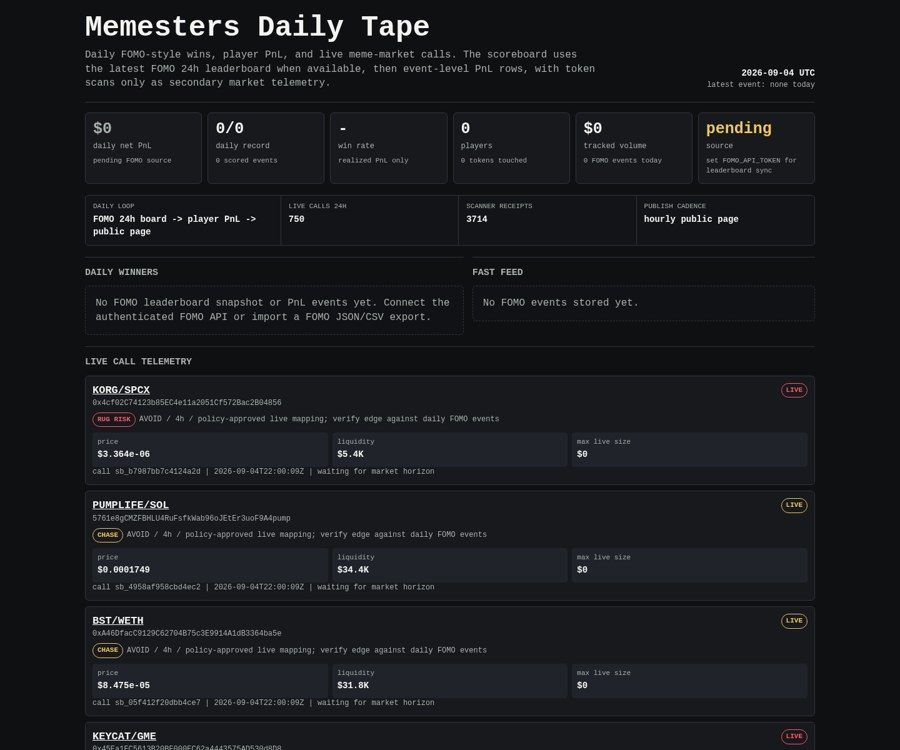
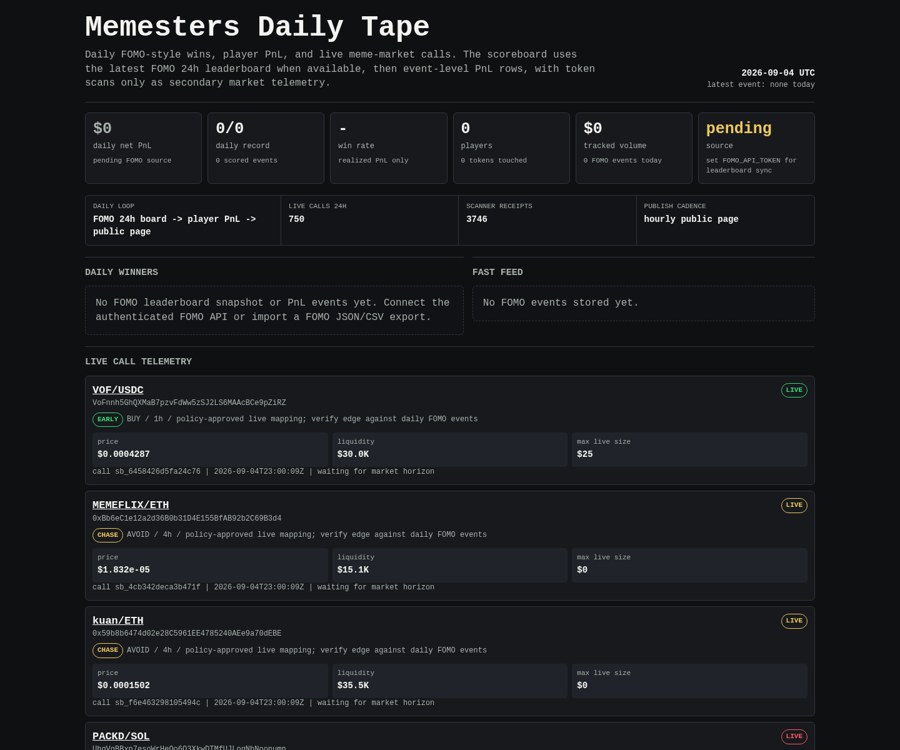
Update Memesters scoreboard

diff --git a/memesters/index.html b/memesters/index.html
@@ -150,7 +150,7 @@
     <div class="rail" aria-label="live operating loop">
       <div><span>daily loop</span><b>FOMO 24h board -> player PnL -> public page</b></div>
       <div><span>live calls 24h</span><b>750</b></div>
-      <div><span>scanner receipts</span><b>3714</b></div>
+      <div><span>scanner receipts</span><b>3746</b></div>
       <div><span>publish cadence</span><b>hourly public page</b></div>
     </div>
 
@@ -171,113 +171,8 @@
     <article class="receipt">
       <div class="receipt-head">
         <div>
-          <div class="pair"><a href="https://dexscreener.com/robinhood/0x68c7d4829dd05f33fd5b42e866be3f7f5c144e348308d9998b5456e2b38a3af7">KORG/SPCX</a></div>
-          <div class="addr">0x4cf02C74123b85EC4e11a2051Cf572Bac2B04856</div>
-          <div class="addr policy-line">
-            <span class="badge rug-risk">RUG RISK</span>
-            <span>AVOID / 4h / policy-approved live mapping; verify edge against daily FOMO events</span>
-          </div>
-        </div>
-        <span class="badge rug-risk">LIVE</span>
-      </div>
-      <div class="receipt-grid">
-        <div class="kv"><span>price</span><b>$3.364e-06</b></div>
-        <div class="kv"><span>liquidity</span><b>$5.4K</b></div>
-        <div class="kv"><span>max live size</span><b>$0</b></div>
-      </div>
-      <div class="outcomes">call sb_b7987bb7c4124a2d | 2026-09-04T22:00:09Z | waiting for market horizon</div>
-    </article>
-    
-
-    <article class="receipt">
-      <div class="receipt-head">
-        <div>
-          <div class="pair"><a href="https://dexscreener.com/solana/bxpgxiknexa6g7v81crdgka5vchw6sufbyy22hxnfcri">PUMPLIFE/SOL</a></div>
-          <div class="addr">5761e8gCMZFBHLU4RuFsfkWab96oJEtEr3uoF9A4pump</div>
-          <div class="addr policy-line">
-            <span class="badge chase">CHASE</span>
-            <span>AVOID / 4h / policy-approved live mapping; verify edge against daily FOMO events</span>
-          </div>
-        </div>
-        <span class="badge chase">LIVE</span>
-      </div>
-      <div class="receipt-grid">
-        <div class="kv"><span>price</span><b>$0.0001749</b></div>
-        <div class="kv"><span>liquidity</span><b>$34.4K</b></div>
-        <div class="kv"><span>max live size</span><b>$0</b></div>
-      </div>
-      <div class="outcomes">call sb_4958af958cbd4ec2 | 2026-09-04T22:00:09Z | waiting for market horizon</div>
-    </article>
-    
-
-    <article class="receipt">
-      <div class="receipt-head">
-        <div>
-          <div class="pair"><a href="https://dexscreener.com/base/0x2f335a05efe9c099a893e0150c5f74881d68f32d">BST/WETH</a></div>
-          <div class="addr">0xA46DfacC9129C62704B75c3E9914A1dB3364ba5e</div>
-          <div class="addr policy-line">
-            <span class="badge chase">CHASE</span>
-            <span>AVOID / 4h / policy-approved live mapping; verify edge against daily FOMO events</span>
-          </div>
-        </div>
-        <span class="badge chase">LIVE</span>
-      </div>
-      <div class="receipt-grid">
-        <div class="kv"><span>price</span><b>$8.475e-05</b></div>
-        <div class="kv"><span>liquidity</span><b>$31.8K</b></div>
-        <div class="kv"><span>max live size</span><b>$0</b></div>
-      </div>
-      <div class="outcomes">call sb_05f412f20dbb4ce7 | 2026-09-04T22:00:09Z | waiting for market horizon</div>
-    </article>
-    
-
-    <article class="receipt">
-      <div class="receipt-head">
-        <div>
-          <div class="pair"><a href="https://dexscreener.com/robinhood/0x2971165708437d0054c05d3662ca73c7c3ba2d827794bd4bbb050ef073528443">KEYCAT/GME</a></div>
-          <div class="addr">0x45Ea1EC5613B20BE000EC62a4443575AD530d8D8</div>
-          <div class="addr policy-line">
-            <span class="badge rug-risk">RUG RISK</span>
-            <span>AVOID / 4h / policy-approved live mapping; verify edge against daily FOMO events</span>
-          </div>
-        </div>
-        <span class="badge rug-risk">LIVE</span>
-      </div>
-      <div class="receipt-grid">
-        <div class="kv"><span>price</span><b>$0.0004619</b></div>
-        <div class="kv"><span>liquidity</span><b>$51.9K</b></div>
-        <div class="kv"><span>max live size</span><b>$0</b></div>
-      </div>
-      <div class="outcomes">call sb_3e16363cc76f46c2 | 2026-09-04T22:00:09Z | waiting for market horizon</div>
-    </article>
-    
-
-    <article class="receipt">
-      <div class="receipt-head">
-        <div>
-          <div class="pair"><a href="https://dexscreener.com/base/0x98252f4f9af10c43f8426475952842a23a8ead458aa333698e624da455c35797">LiTesla/TSLAc</a></div>
-          <div class="addr">0xB200000000000000000000d0156AFdf3Ea382601</div>
-          <div class="addr policy-line">
-            <span class="badge chase">CHASE</span>
-            <span>AVOID / 4h / policy-approved live mapping; verify edge against daily FOMO events</span>
-          </div>
-        </div>
-        <span class="badge chase">LIVE</span>
-      </div>
-      <div class="receipt-grid">
-        <div class="kv"><span>price</span><b>$3.613e-05</b></div>
-        <div class="kv"><span>liquidity</span><b>$20.0K</b></div>
-        <div class="kv"><span>max live size</span><b>$0</b></div>
-      </div>
-      <div class="outcomes">call sb_712e697fb9104e5c | 2026-09-04T22:00:09Z | waiting for market horizon</div>
-    </article>
-    
-
-    <article class="receipt">
-      <div class="receipt-head">
-        <div>
-          <div class="pair"><a href="https://dexscreener.com/robinhood/0x1555d7d35615d28ca380b7ef7681cddf64ac73f0e381aec3a9daaf41f2c88a8f">Fitcoin/HIMS</a></div>
-          <div class="addr">0xcC65ef0332527F1C9b4B193517BCc27257c3e39F</div>
+          <div class="pair"><a href="https://dexscreener.com/solana/grfygm3ggphw1yagnvgf1jgsy2uq7yajbfij2wtyvrvt">VOF/USDC</a></div>
+          <div class="addr">VoFnnh5GhQXMaB7pzvFdWw5zSJ2LS6MAAcBCe9pZiRZ</div>
           <div class="addr policy-line">
             <span class="badge early">EARLY</span>
             <span>BUY / 1h / policy-approved live mapping; verify edge against daily FOMO events</span>
@@ -286,40 +181,19 @@
         <span class="badge early">LIVE</span>
       </div>
       <div class="receipt-grid">
-        <div class="kv"><span>price</span><b>$6.692e-05</b></div>
-        <div class="kv"><span>liquidity</span><b>$23.3K</b></div>
-        <div class="kv"><span>max live size</span><b>$280</b></div>
+        <div class="kv"><span>price</span><b>$0.0004287</b></div>
+        <div class="kv"><span>liquidity</span><b>$30.0K</b></div>
+        <div class="kv"><span>max live size</span><b>$25</b></div>
       </div>
-      <div class="outcomes">call sb_28ac648ed6f44ff7 | 2026-09-04T22:00:09Z | waiting for market horizon</div>
+      <div class="outcomes">call sb_6458426d5fa24c76 | 2026-09-04T23:00:09Z | waiting for market horizon</div>
     </article>
     
 
     <article class="receipt">
       <div class="receipt-head">
         <div>
-          <div class="pair"><a href="https://dexscreener.com/robinhood/0x28034a1760a3c4eaff4f720ce710ea1f15281eea99b5f75da521082606e3cb1d">SEPE/SPCX</a></div>
-          <div class="addr">0x5e8De09890D1ada7071977ef306d7Cf85B1F29A7</div>
-          <div class="addr policy-line">
-            <span class="badge rug-risk">RUG RISK</span>
-            <span>AVOID / 4h / policy-approved live mapping; verify edge against daily FOMO events</span>
-          </div>
-        </div>
-        <span class="badge rug-risk">LIVE</span>
-      </div>
-      <div class="receipt-grid">
-        <div class="kv"><span>price</span><b>$1.763e-05</b></div>
-        <div class="kv"><span>liquidity</span><b>$12.4K</b></div>
-        <div class="kv"><span>max live size</span><b>$0</b></div>
-      </div>
-      <div class="outcomes">call sb_97fcfb1a2b374300 | 2026-09-04T22:00:09Z | waiting for market horizon</div>
-    </article>
-    
-
-    <article class="receipt">
-      <div class="receipt-head">
-        <div>
-          <div class="pair"><a href="https://dexscreener.com/solana/8b1b8ufyyuwfqq48hajbdzmgzg5rybrammghxm6wkyhn">MEMELESS/SOL</a></div>
-          <div class="addr">FiAum2V5D6QUBXrW8T4vEsEcGJtVzxCUoLLrSWCLpump</div>
+          <div class="pair"><a href="https://dexscreener.com/robinhood/0xf1a2235b8eb72634497f1ebabb0d422df433e1a14cab62fa0b57683b8ac99973">MEMEFLIX/ETH</a></div>
+          <div class="addr">0xBb6eC1e12a2d36B0b31D4E155BfAB92b2C69B3d4</div>
           <div class="addr policy-line">
             <span class="badge chase">CHASE</span>
             <span>AVOID / 4h / policy-approved live mapping; verify edge against daily FOMO events</span>
@@ -328,40 +202,19 @@
         <span class="badge chase">LIVE</span>
       </div>
       <div class="receipt-grid">
-        <div class="kv"><span>price</span><b>$0.0002347</b></div>
-        <div class="kv"><span>liquidity</span><b>$40.0K</b></div>
+        <div class="kv"><span>price</span><b>$1.832e-05</b></div>
+        <div class="kv"><span>liquidity</span><b>$15.1K</b></div>
         <div class="kv"><span>max live size</span><b>$0</b></div>
       </div>
-      <div class="outcomes">call sb_63c35b3e6d174ef2 | 2026-09-04T22:00:09Z | waiting for market horizon</div>
+      <div class="outcomes">call sb_4cb342deca3b471f | 2026-09-04T23:00:09Z | waiting for market horizon</div>
     </article>
     
 
     <article class="receipt">
       <div class="receipt-head">
         <div>
-          <div class="pair"><a href="https://dexscreener.com/solana/4fnqqfzljewqomhynngto16j28ofwsbwecokazskmho2">NASDАRQ/SOL</a></div>
-          <div class="addr">WB4PFnUPxt6QiHKu8xVmNY1Hetp3nHKPibGoefypump</div>
-          <div class="addr policy-line">
-            <span class="badge rug-risk">RUG RISK</span>
-            <span>AVOID / 4h / policy-approved live mapping; verify edge against daily FOMO events</span>
-          </div>
-        </div>
-        <span class="badge rug-risk">LIVE</span>
-      </div>
-      <div class="receipt-grid">
-        <div class="kv"><span>price</span><b>$2.399e-06</b></div>
-        <div class="kv"><span>liquidity</span><b>$2.4K</b></div>
-        <div class="kv"><span>max live size</span><b>$0</b></div>
-      </div>
-      <div class="outcomes">call sb_41d791a87aa44170 | 2026-09-04T21:45:10Z | waiting for market horizon</div>
-    </article>
-    
-
-    <article class="receipt">
-      <div class="receipt-head">
-        <div>
-          <div class="pair"><a href="https://dexscreener.com/bsc/0x649e34d8db8ffe8fe0c64b076acba26892d87f5e">ACAT/WBNB</a></div>
-          <div class="addr">0x70F7cBCf703B882295a8bbee49AE159A29237777</div>
+          <div class="pair"><a href="https://dexscreener.com/robinhood/0x5e5d1d059cec5a2732f489207961ad404e5aea5a282d834eadaa3047d62e9ce7">kuan/ETH</a></div>
+          <div class="addr">0x59b8b6474d02e28C5961EE4785240AEe9a70dEBE</div>
           <div class="addr policy-line">
             <span class="badge chase">CHASE</span>
             <span>AVOID / 4h / policy-approved live mapping; verify edge against daily FOMO events</span>
@@ -370,11 +223,158 @@
         <span class="badge chase">LIVE</span>
       </div>
       <div class="receipt-grid">
-        <div class="kv"><span>price</span><b>$0.000108</b></div>
-        <div class="kv"><span>liquidity</span><b>$31.9K</b></div>
+        <div class="kv"><span>price</span><b>$0.0001502</b></div>
+        <div class="kv"><span>liquidity</span><b>$35.5K</b></div>
         <div class="kv"><span>max live size</span><b>$0</b></div>
       </div>
-      <div class="outcomes">call sb_bd3698ba6b214ad9 | 2026-09-04T21:45:10Z | waiting for market horizon</div>
+      <div class="outcomes">call sb_f6e463298105494c | 2026-09-04T23:00:09Z | waiting for market horizon</div>
+    </article>
+    
+
+    <article class="receipt">
+      <div class="receipt-head">
+        <div>
+          <div class="pair"><a href="https://dexscreener.com/solana/ummwcaq9wqypqmhj5j88lkgsw6x3m5qsw2hmqmvqcd9">PAСKD/SOL</a></div>
+          <div class="addr">UhqVqBBxp7esoWrHeQo6Q3XkwDTMfUJLogNbNoopump</div>
+          <div class="addr policy-line">
+            <span class="badge rug-risk">RUG RISK</span>
+            <span>AVOID / 4h / policy-approved live mapping; verify edge against daily FOMO events</span>
+          </div>
+        </div>
+        <span class="badge rug-risk">LIVE</span>
+      </div>
+      <div class="receipt-grid">
+        <div class="kv"><span>price</span><b>$3.188e-06</b></div>
+        <div class="kv"><span>liquidity</span><b>$3.0K</b></div>
+        <div class="kv"><span>max live size</span><b>$0</b></div>
+      </div>
+      <div class="outcomes">call sb_58f4421ed239480f | 2026-09-04T23:00:09Z | waiting for market horizon</div>
+    </article>
+    
+
+    <article class="receipt">
+      <div class="receipt-head">
+        <div>
+          <div class="pair"><a href="https://dexscreener.com/robinhood/0xc8456078519a6cd5623b4c57c4fa8b13e9d87ae429d91cc35a2b1bd5e3ef0566">SLINK/WETH</a></div>
+          <div class="addr">0x6BE7f3dA0809DcEe41de05003391149338ac2f3D</div>
+          <div class="addr policy-line">
+            <span class="badge chase">CHASE</span>
+            <span>AVOID / 4h / policy-approved live mapping; verify edge against daily FOMO events</span>
+          </div>
+        </div>
+        <span class="badge chase">LIVE</span>
+      </div>
+      <div class="receipt-grid">
+        <div class="kv"><span>price</span><b>$8.062e-05</b></div>
+        <div class="kv"><span>liquidity</span><b>$64.4K</b></div>
+        <div class="kv"><span>max live size</span><b>$0</b></div>
+      </div>
+      <div class="outcomes">call sb_3b0bb6dd67c047bf | 2026-09-04T23:00:09Z | waiting for market horizon</div>
+    </article>
+    
+
+    <article class="receipt">
+      <div class="receipt-head">
+        <div>
+          <div class="pair"><a href="https://dexscreener.com/robinhood/0x8bc2baf94bb5b134fb8076024b65707d76a71e38fa2e53d92444d78c25d96152">mBTC/cbBTC</a></div>
+          <div class="addr">0x40824CbfBBa7c226a443b3EB21225a214142Da32</div>
+          <div class="addr policy-line">
+            <span class="badge early">EARLY</span>
+            <span>BUY / 1h / policy-approved live mapping; verify edge against daily FOMO events</span>
+          </div>
+        </div>
+        <span class="badge early">LIVE</span>
+      </div>
+      <div class="receipt-grid">
+        <div class="kv"><span>price</span><b>$0.5114</b></div>
+        <div class="kv"><span>liquidity</span><b>$10.7K</b></div>
+        <div class="kv"><span>max live size</span><b>$25</b></div>
+      </div>
+      <div class="outcomes">call sb_0d23b7a1a3494be2 | 2026-09-04T23:00:09Z | waiting for market horizon</div>
+    </article>
+    
+
+    <article class="receipt">
+      <div class="receipt-head">
+        <div>
+          <div class="pair"><a href="https://dexscreener.com/robinhood/0xfeb3084304a23d3d38ccdd40122da8e334237a8a125c257a04666122e7545911">DOGE/IBM</a></div>
+          <div class="addr">0x957de1188EC592Fd851C907baE0fDA472351B77e</div>
+          <div class="addr policy-line">
+            <span class="badge rug-risk">RUG RISK</span>
+            <span>AVOID / 4h / policy-approved live mapping; verify edge against daily FOMO events</span>
+          </div>
+        </div>
+        <span class="badge rug-risk">LIVE</span>
+      </div>
+      <div class="receipt-grid">
+        <div class="kv"><span>price</span><b>$1.266e-05</b></div>
+        <div class="kv"><span>liquidity</span><b>$10.3K</b></div>
+        <div class="kv"><span>max live size</span><b>$0</b></div>
+      </div>
+      <div class="outcomes">call sb_1ced81c16b654cad | 2026-09-04T23:00:09Z | waiting for market horizon</div>
+    </article>
+    
+
+    <article class="receipt">
+      <div class="receipt-head">
+        <div>
+          <div class="pair"><a href="https://dexscreener.com/robinhood/0x7e4838e867511d769f2d123e376546bbe8febc604bead4daa82b5cd7d83b482c">PARCAT/ETH</a></div>
+          <div class="addr">0xF3c5B06CD59c5E2018EA483482eCe29005Cff7Ba</div>
+          <div class="addr policy-line">
+            <span class="badge chase">CHASE</span>
+            <span>AVOID / 4h / policy-approved live mapping; verify edge against daily FOMO events</span>
+          </div>
+        </div>
+        <span class="badge chase">LIVE</span>
+      </div>
+      <div class="receipt-grid">
+        <div class="kv"><span>price</span><b>$1.48e-05</b></div>
+        <div class="kv"><span>liquidity</span><b>$10.7K</b></div>
+        <div class="kv"><span>max live size</span><b>$0</b></div>
+      </div>
+      <div class="outcomes">call sb_5242c06256974a87 | 2026-09-04T23:00:09Z | waiting for market horizon</div>
+    </article>
+    
+
+    <article class="receipt">
+      <div class="receipt-head">
+        <div>
+          <div class="pair"><a href="https://dexscreener.com/robinhood/0x479b86ef7dfae496bb3e9a3f68bdfa2850afc4728ed9226d1087a0119fed5f5a">ZARDOZ/ETH</a></div>
+          <div class="addr">0x9e272897DcBc3992096d98702AC202D899456be1</div>
+          <div class="addr policy-line">
+            <span class="badge chase">CHASE</span>
+            <span>AVOID / 4h / policy-approved live mapping; verify edge against daily FOMO events</span>
+          </div>
+        </div>
+        <span class="badge chase">LIVE</span>
+      </div>
+      <div class="receipt-grid">
+        <div class="kv"><span>price</span><b>$2.832e-05</b></div>
+        <div class="kv"><span>liquidity</span><b>$15.4K</b></div>
+        <div class="kv"><span>max live size</span><b>$0</b></div>
+      </div>
+      <div class="outcomes">call sb_39fcfb4238e64b8a | 2026-09-04T22:45:09Z | waiting for market horizon</div>
+    </article>
+    
+
+    <article class="receipt">
+      <div class="receipt-head">
+        <div>
+          <div class="pair"><a href="https://dexscreener.com/base/0x3813709f9f6beb91d5a03d8b30cca3d75c4d8f3a9cae446983692771e82fa1e9">BLUE/METAc</a></div>
+          <div class="addr">0xb2000000000000000000005D26Cfd981b8140701</div>
+          <div class="addr policy-line">
+            <span class="badge chase">CHASE</span>
+            <span>AVOID / 4h / policy-approved live mapping; verify edge against daily FOMO events</span>
+          </div>
+        </div>
+        <span class="badge chase">LIVE</span>
+      </div>
+      <div class="receipt-grid">
+        <div class="kv"><span>price</span><b>$0.0003704</b></div>
+        <div class="kv"><span>liquidity</span><b>$75.7K</b></div>
+        <div class="kv"><span>max live size</span><b>$0</b></div>
+      </div>
+      <div class="outcomes">call sb_49ad3646754a48ab | 2026-09-04T22:45:09Z | waiting for market horizon</div>
     </article>
     
     </section>
